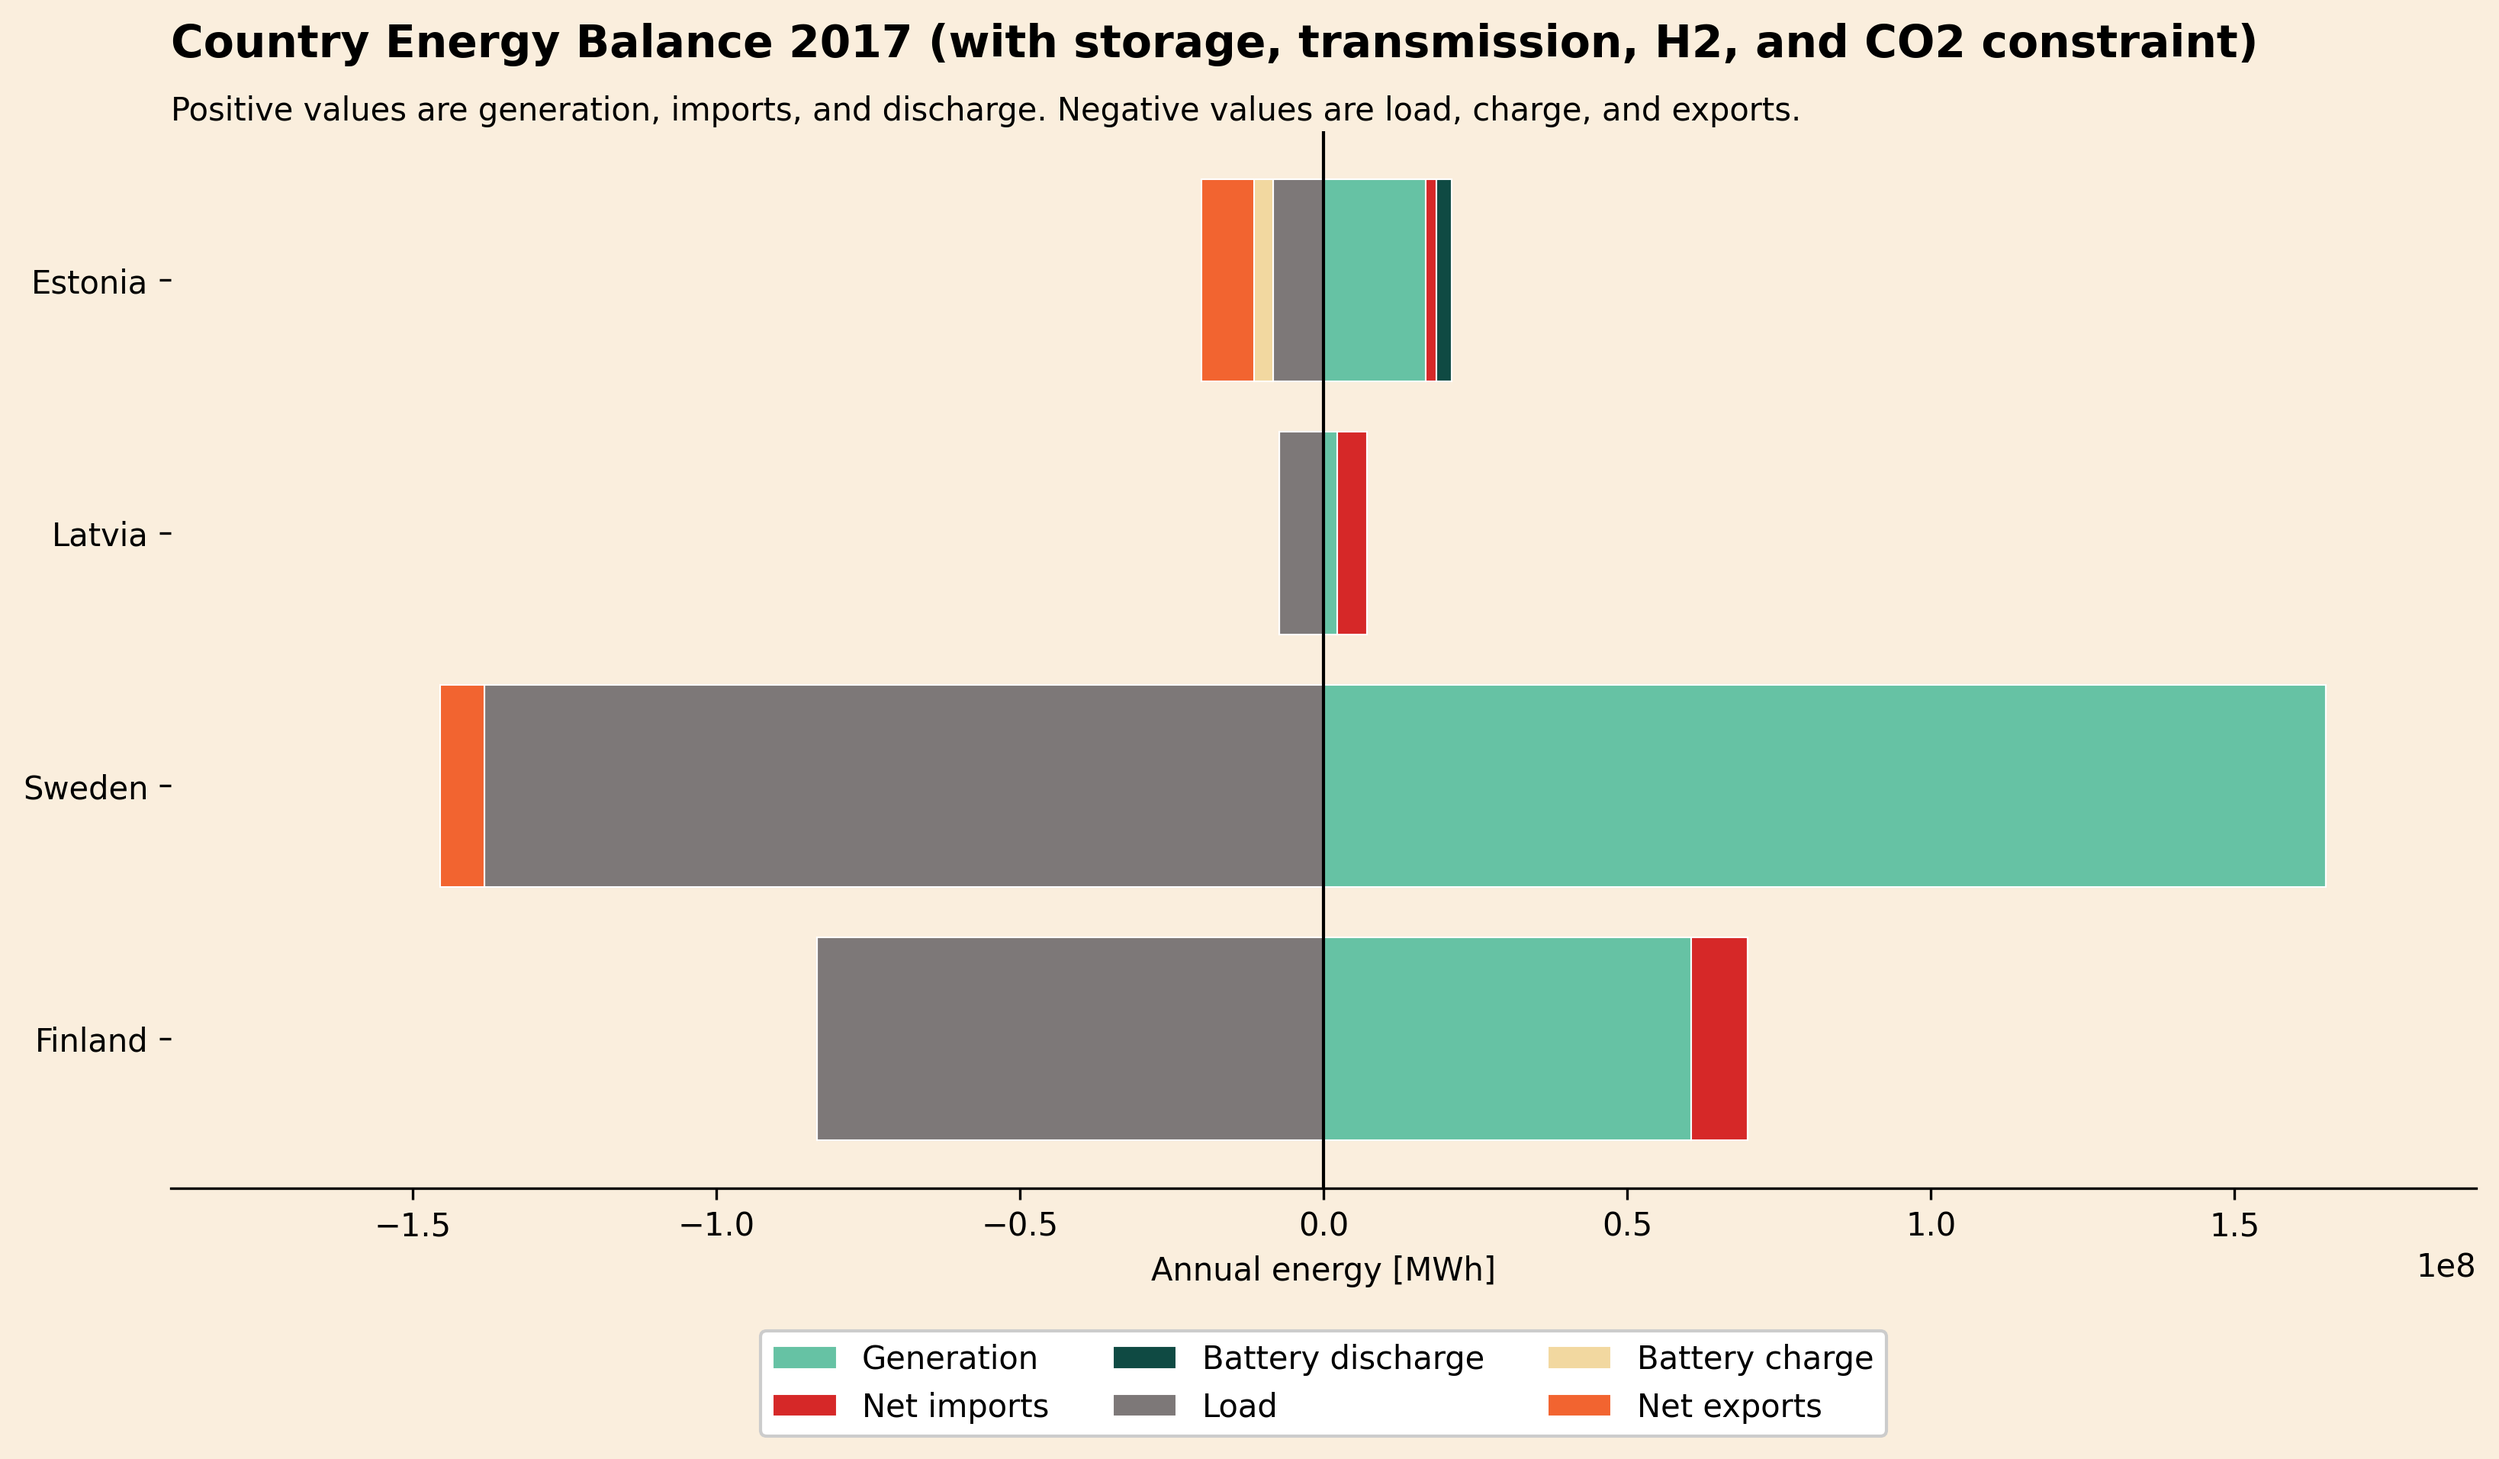
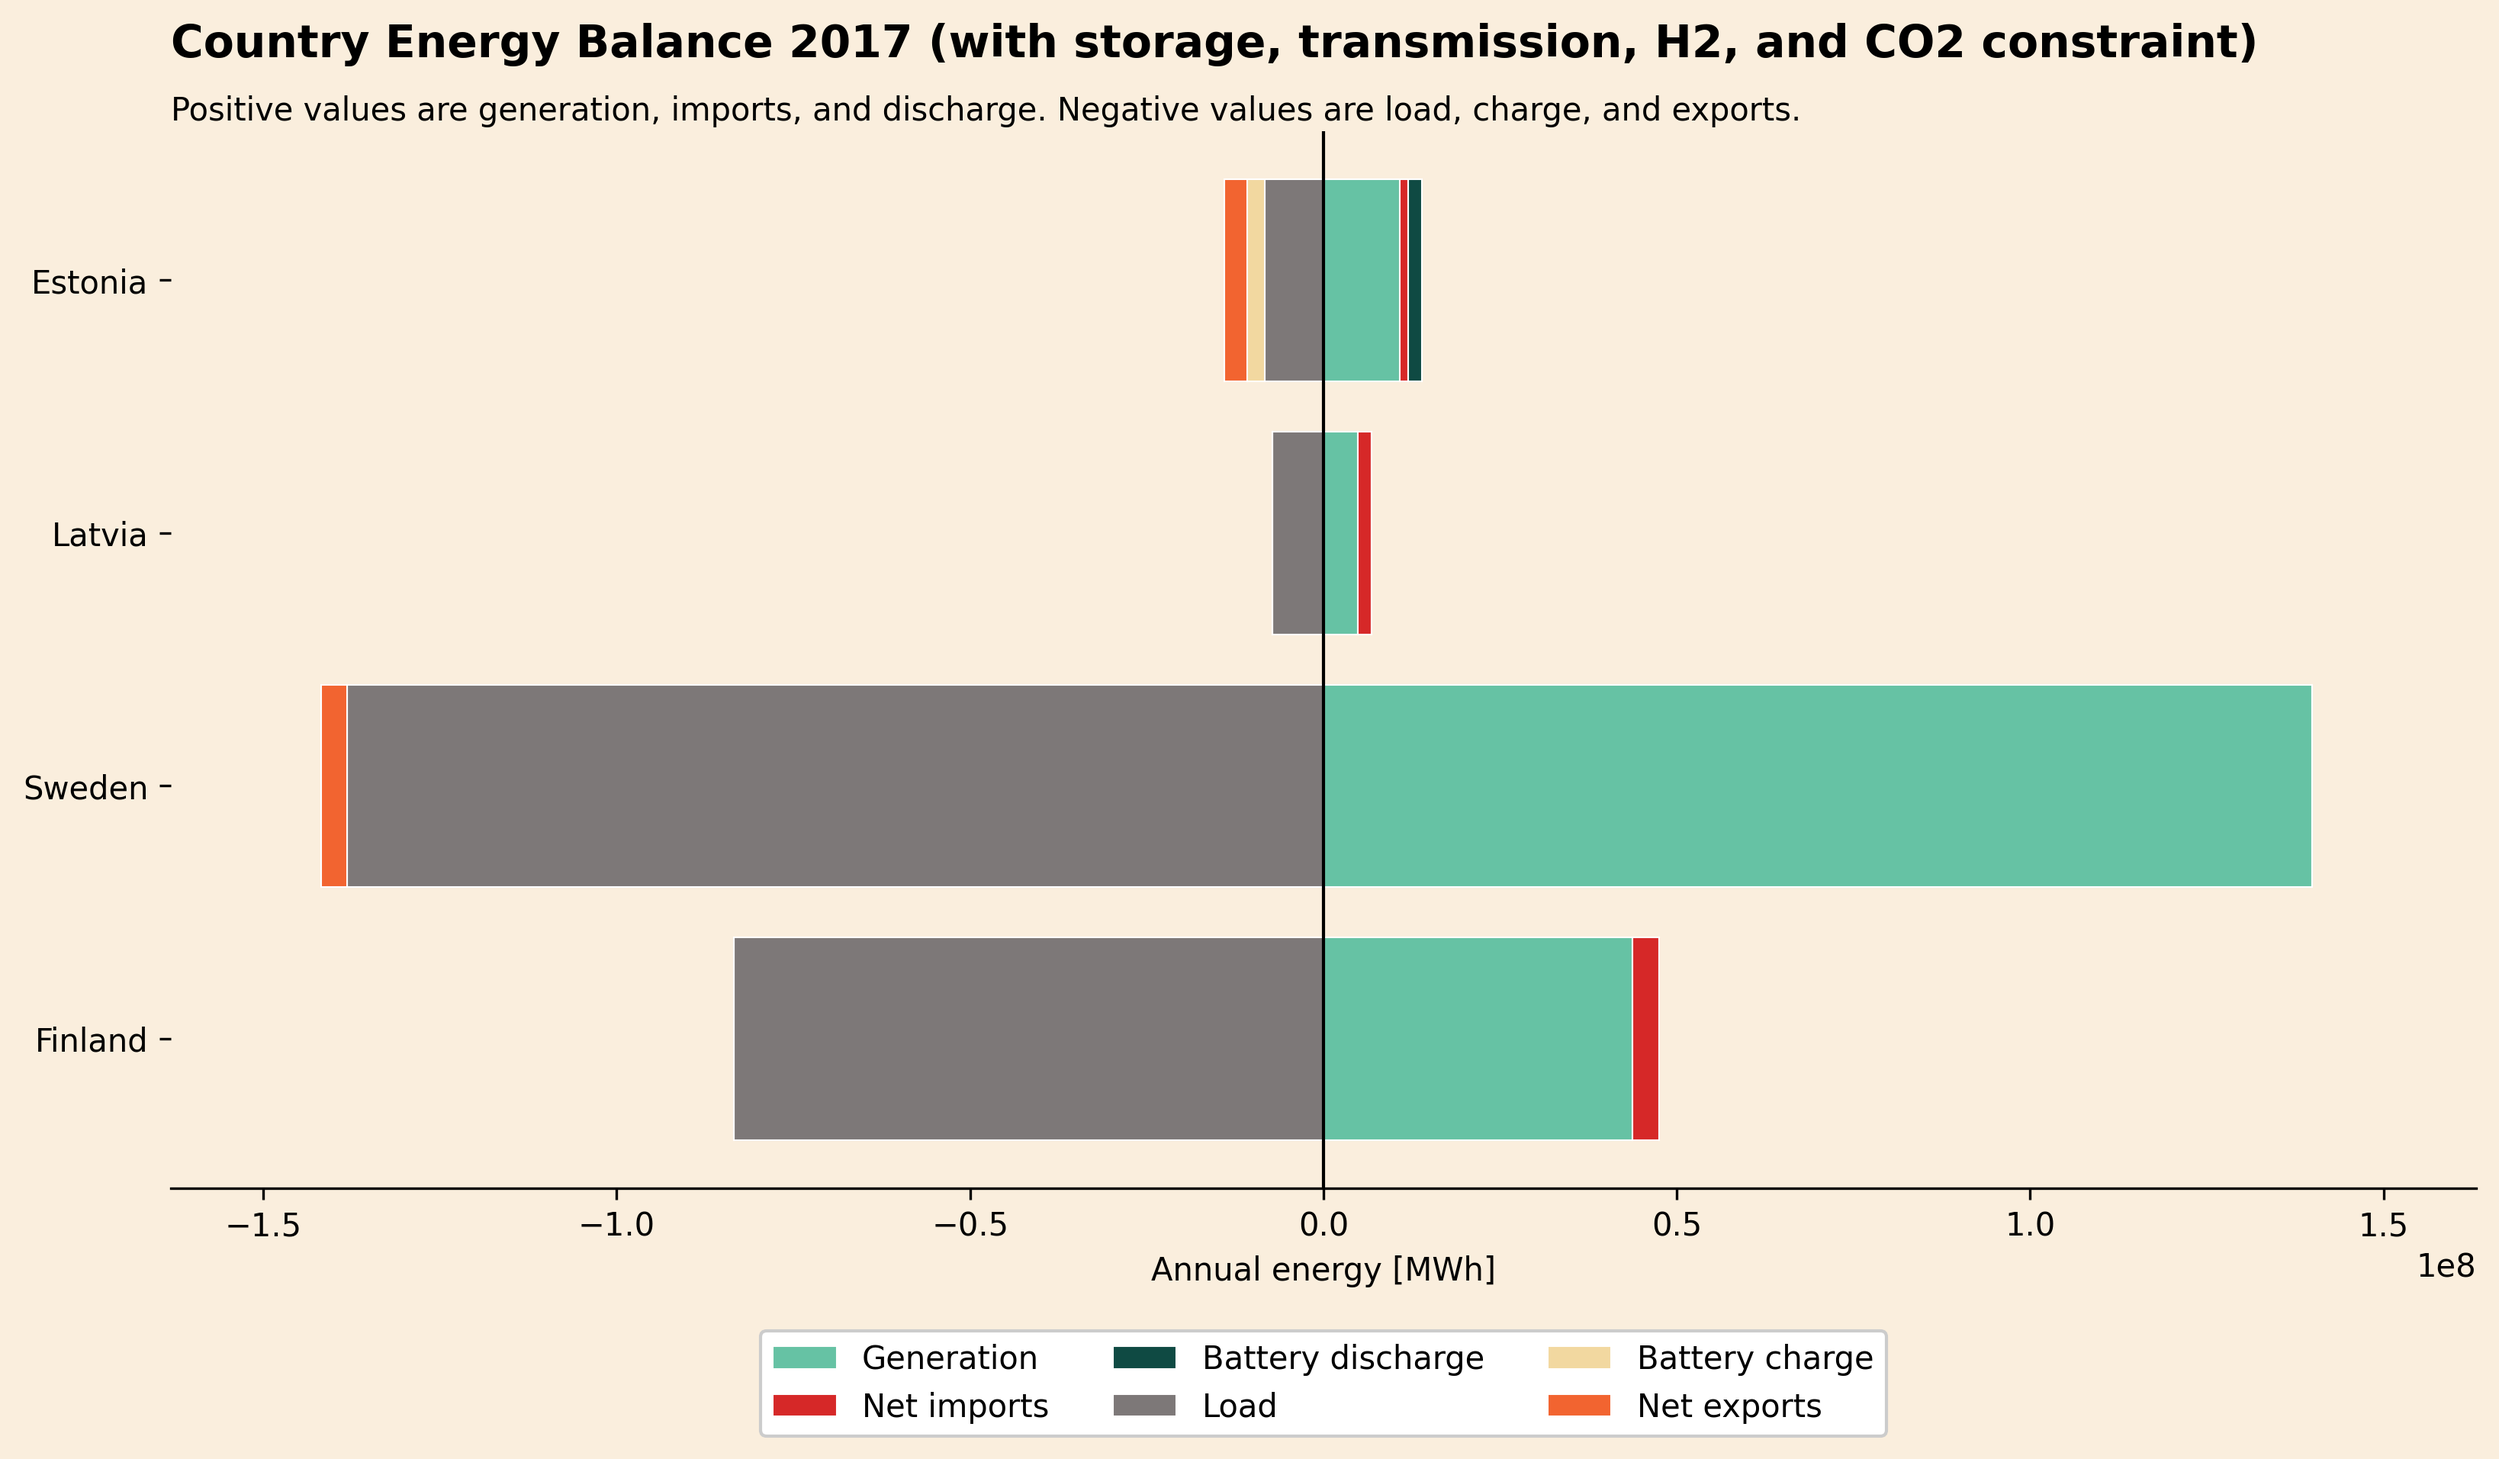
co2 reduction limits sensitivity + plot

diff --git a/main.py b/main.py
@@ -6,11 +6,11 @@ from helper import *
 
 ### SECTION CONTROLS ###
 RUN_A_C = False # with and without storage single node 
-RUN_D = True # + transmission 
-RUN_E = True # imbalances
+RUN_D = False # + transmission 
+RUN_E = False # imbalances
 RUN_F = False # CO2 limit analysis
 RUN_G = False # H2 network
-RUN_H = False # CO2 constraint
+RUN_H = True # CO2 constraint
 RUN_I = False # heat sector
 
 ### LOADING DATA ###
@@ -325,77 +325,124 @@ if RUN_G:
 
 if RUN_H:
     # h) Add carbon emission constraints
+    run_co2_limit_plots = False
+    run_co2_limit_sensitivity = True
 
-    network = Network(load,wind_cf, solar_cf, hours=hours)
-    network.build_network(storage=True, transmission=True, external=True, h2=True, co2_limit=True, limit=28_000_000 * 0.1)
+    co2_1990_ee = 28_300_000 # tons of CO2 (electricity and heating sector) in 1990 for Estonia
+    co2_1990_fi = 19_900_000 # tons of CO2 (electricity and heating sector) in 1990 for Finland
+    co2_1990_se = 9_800_000 # tons of CO2 (electricity and heating sector) in 1990 for Sweden
+    co2_1990_lv = 9_850_000 # tons of CO2 (electricity and heating sector) in 1990 for Latvia
+    co2_1990_total = co2_1990_ee + co2_1990_fi + co2_1990_se + co2_1990_lv
+    
+    
+    def co2_reduction_plots(dispatch, capacities, network, reduction_target):
+        scenario_label = f"with storage, transmission, H2, and CO2 constraint ({int(reduction_target) * 100}% reduction)"
+        soc_max = capacities.get('Battery Storage Estonia', 0)
+        shared_power_axis_max = compute_shared_power_axis_max(dispatch, load_est)
 
-    network.optimize_network()
+        plot_dispatch(
+            january_week,
+            dispatch[january_week_mask],
+            load_est[january_week_mask],
+            f"Optimal Hourly Dispatch for One Week in January 2017 ({scenario_label})",
+            power_axis_max=shared_power_axis_max,
+            soc_axis_max=soc_max,
+        )
 
-    dispatch, capacities = network.save_results()
+        plot_dispatch(
+            july_week,
+            dispatch[july_week_mask],
+            load_est[july_week_mask],
+            f"Optimal Hourly Dispatch for One Week in July 2017 ({scenario_label})",
+            power_axis_max=shared_power_axis_max,
+            soc_axis_max=soc_max,
+        )
 
-    scenario_label = "with storage, transmission, H2, and CO2 constraint"
-    soc_max = capacities.get('Battery Storage Estonia', 0)
-    shared_power_axis_max = compute_shared_power_axis_max(dispatch, load_est)
+        plot_capacity_mix_by_country(capacities, f"Optimal Installed Capacity Mix by Country 2017 ({scenario_label})", show=False, save=True)
 
-    plot_dispatch(
-        january_week,
-        dispatch[january_week_mask],
-        load_est[january_week_mask],
-        f"Optimal Hourly Dispatch for One Week in January 2017 ({scenario_label})",
-        power_axis_max=shared_power_axis_max,
-        soc_axis_max=soc_max,
-    )
+        plot_transmission_network(dispatch, load, f"Transmission Network Flows 2017 ({scenario_label})", show=False, save=True)
+        plot_country_balance(dispatch, load, f"Country Energy Balance 2017 ({scenario_label})", show=False, save=True)
+        plot_duration_curve(dispatch, f"Duration Curve for 2017 ({scenario_label})")
 
-    plot_dispatch(
-        july_week,
-        dispatch[july_week_mask],
-        load_est[july_week_mask],
-        f"Optimal Hourly Dispatch for One Week in July 2017 ({scenario_label})",
-        power_axis_max=shared_power_axis_max,
-        soc_axis_max=soc_max,
-    )
+        plot_h2_capacity_mix_by_country(
+            network.network,
+            f"H2 Installed Capacity Split by Country 2017 ({scenario_label})",
+            show=False,
+            save=True,
+        )
 
-    plot_capacity_mix_by_country(capacities, f"Optimal Installed Capacity Mix by Country 2017 ({scenario_label})", show=False, save=True)
+        plot_total_transmission_comparison(dispatch, title="Total Transported Energy in 2017 (CO2_constraint)", show=False, save=True)
 
-    plot_transmission_network(dispatch, load, f"Transmission Network Flows 2017 ({scenario_label})", show=False, save=True)
-    plot_country_balance(dispatch, load, f"Country Energy Balance 2017 ({scenario_label})", show=False, save=True)
-    plot_duration_curve(dispatch, f"Duration Curve for 2017 ({scenario_label})")
+        plot_h2_transmission_network(dispatch, title="H2 Transmission Network 2017 (CO2_constraint)", show=False, save=True)
 
-    plot_h2_capacity_mix_by_country(
-        network.network,
-        f"H2 Installed Capacity Split by Country 2017 ({scenario_label})",
-        show=False,
-        save=True,
-    )
+        plot_h2_storage_operation(
+            january_week,
+            dispatch[january_week_mask],
+            title=f"H2 Storage Operation for One Week in January 2017 ({scenario_label})",
+            show=False,
+            save=True,
+        )
 
-    plot_total_transmission_comparison(dispatch, title="Total Transported Energy in 2017 (CO2_constraint)", show=False, save=True)
+        plot_h2_storage_operation(
+            july_week,
+            dispatch[july_week_mask],
+            title=f"H2 Storage Operation for One Week in July 2017 ({scenario_label})",
+            show=False,
+            save=True,
+        )
 
-    plot_h2_transmission_network(dispatch, title="H2 Transmission Network 2017 (CO2_constraint)", show=False, save=True)
+        print_h2_capacity_summary(network)
+        
 
-    plot_h2_storage_operation(
-        january_week,
-        dispatch[january_week_mask],
-        title=f"H2 Storage Operation for One Week in January 2017 ({scenario_label})",
-        show=False,
-        save=True,
-    )
+        co2_price = network.network.global_constraints.mu.values[0]
+        print("--------------------------------------------------------")
+        print("CO2 Price: ")
+        print(co2_price)
+        print("--------------------------------------------------------")
 
-    plot_h2_storage_operation(
-        july_week,
-        dispatch[july_week_mask],
-        title=f"H2 Storage Operation for One Week in July 2017 ({scenario_label})",
-        show=False,
-        save=True,
-    )
+        return
+    
+    if run_co2_limit_sensitivity:
+        sens_co2_limits = [0.55, 0.6, 0.65, 0.7, 0.725, 0.75, 0.8, 0.85, 0.9, 0.95, 0.99] # reduction targets from 1990 levels (e.g., 0.7 means 70% reduction, i.e., 30% of 1990 levels)
+        sens_co2_results = []
+        for reduction_target in sens_co2_limits:
+            # Recalculate co2_limit based on the current reduction_target
+            co2_limit = (1 - reduction_target) * co2_1990_total
+            network = Network(load, wind_cf, solar_cf, hours=hours)
+            network.build_network(storage=True, transmission=True, external=True, h2=True, co2_limit=True, limit=co2_limit)
 
-    print_h2_capacity_summary(network)
+            network.optimize_network()
+            dispatch, capacities = network.save_results()
+
+            co2_price = -network.network.global_constraints.mu.iloc[0]
+            sens_co2_results.append(co2_price)
+            
+            print(f"Reduction target: {int(reduction_target * 100)}%, CO2 limit: {co2_limit:.0f} tons, CO2 price: {co2_price:.2f} €/ton")
+        
+        plot_co2_price_sensitivity(sens_co2_limits, sens_co2_results, f"Sensitivity of CO2 Price to Emission Reduction Targets", show=False, save=True)
+
+    else:
+        reduction_target = 0.7 # 70% reduction from 1990 levels
+        co2_limit = (1 - reduction_target) * co2_1990_total
+        print(f"Applying CO2 limit of {co2_limit:.0f} tons, which is {int((1 - reduction_target) * 100)}% of 1990 levels for the entire region.")
+        
+        network = Network(load, wind_cf, solar_cf, hours=hours)
+        network.build_network(storage=True, transmission=True, external=True, h2=True, co2_limit=True, limit=co2_limit)
+
+        network.optimize_network()
+        dispatch, capacities = network.save_results()
+        co2_reduction_plots(dispatch, capacities, network, reduction_target)
+
+    # sens_co2_limits = [0.55, 0.6, 0.65, 0.7, 0.75, 0.8, 0.85, 0.9, 0.95, 0.99] # reduction targets from 1990 levels (e.g., 0.7 means 70% reduction, i.e., 30% of 1990 levels)
+
+    # sens_co2_results = [0.16, 10.70, 35.53, 62.68, 97.58, 144.11, 175.87, 247.43, 446.79, 1694.32] # dummy results for testing the plotting function
+
+    # plot_co2_price_sensitivity(sens_co2_limits, sens_co2_results, f"Sensitivity of CO2 Price to Emission Reduction Targets", show=False, save=True)
+
     
 
-    co2_price = network.network.global_constraints.mu
-    print("--------------------------------------------------------")
-    print("CO2 Price: ")
-    print(co2_price)
-    print("--------------------------------------------------------")
+    
+
 
 if RUN_I:
     

diff --git a/plotter.py b/plotter.py
@@ -2159,3 +2159,34 @@ def plot_h2_dispatch(time_index, dispatch, title, show=False, save=True,
 
     if show:
         plt.show()
+
+#sensitivity analysis of CO2 reduction targets on CO2 price
+def plot_co2_price_sensitivity(reduction_targets, co2_prices, title, show=False, save=True):
+    """
+    Plot the sensitivity of CO2 price to different CO2 reduction targets.
+    """
+    colors, background_color = color_palette()
+
+    fig, ax = plt.subplots(figsize=(8, 4))
+    fig.patch.set_facecolor(background_color)
+    ax.set_facecolor(background_color)
+
+
+    ax.plot(reduction_targets, co2_prices, marker='o', linestyle='-', color=colors[5])
+    ax.set_xlabel("CO2 Reduction Target (%)", fontsize=12)
+    ax.set_xticks(reduction_targets)
+    ax.set_ylabel("CO2 Price (€/tonne)", fontsize=12)
+    ax.set_title(title, fontsize=14, fontweight="bold", color="black")
+    ax.grid(True, which='both', linestyle='--', linewidth=0.5, alpha=0.7)
+
+    # Annotate points with CO2 price values
+    for target, price in zip(reduction_targets, co2_prices):
+            ax.text(target, price, f"{price:.1f} €/t", fontsize=9, ha='center', va='bottom')
+
+    if save:
+        fig_title = title.replace(" ", "_").lower()
+        print("Saving:", fig_title)
+        save_plot(fig_title)
+
+    if show:
+        plt.show()
